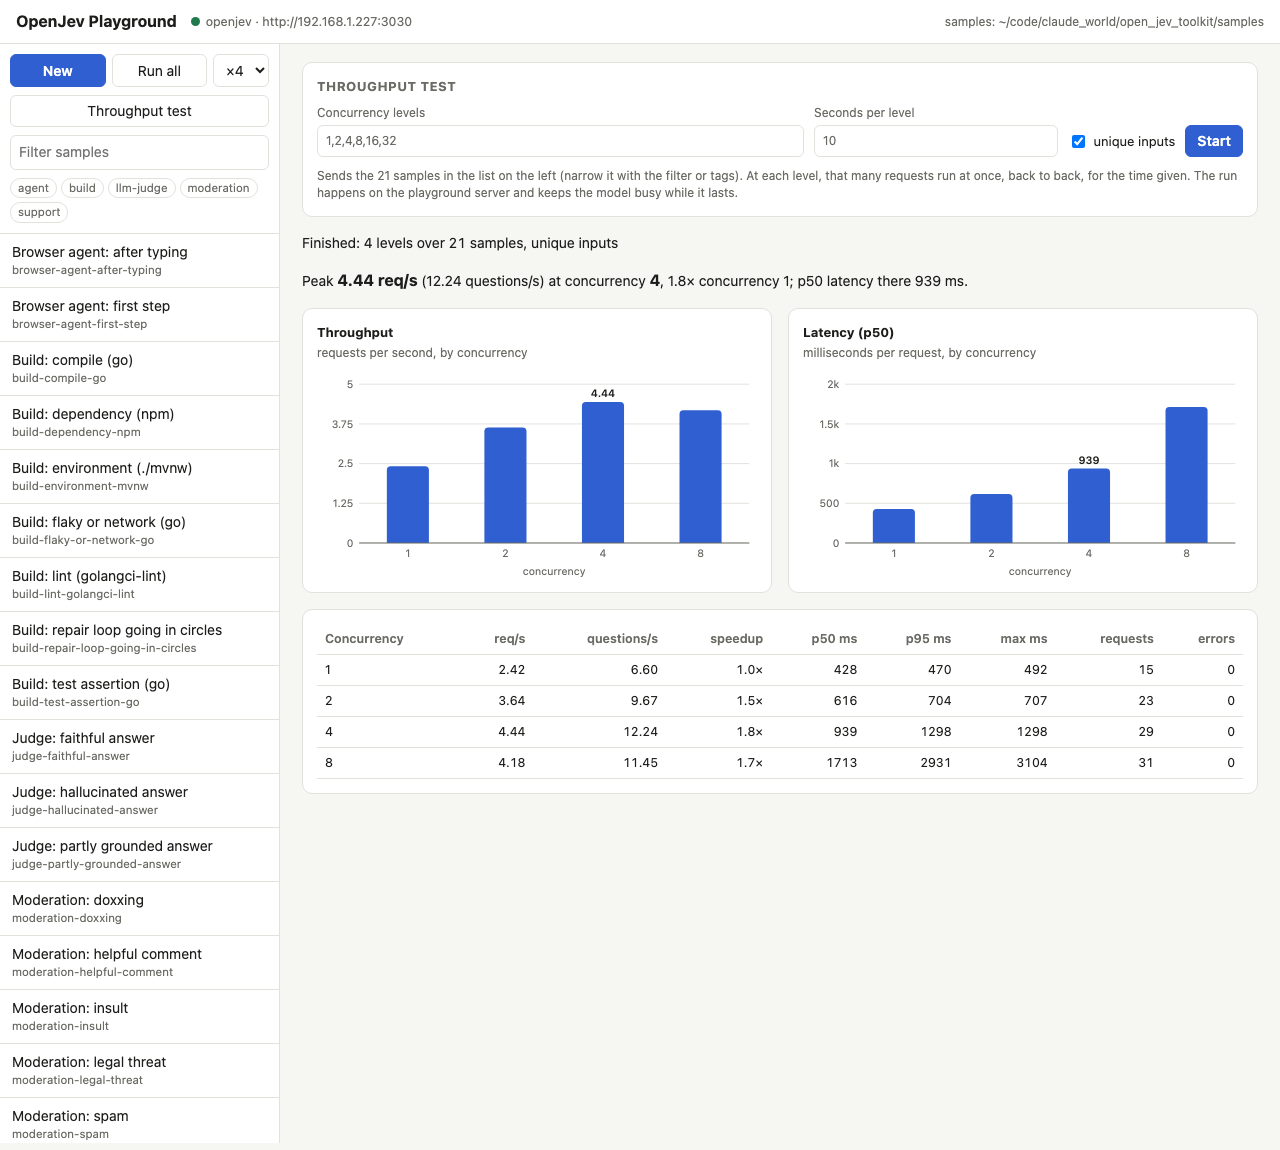
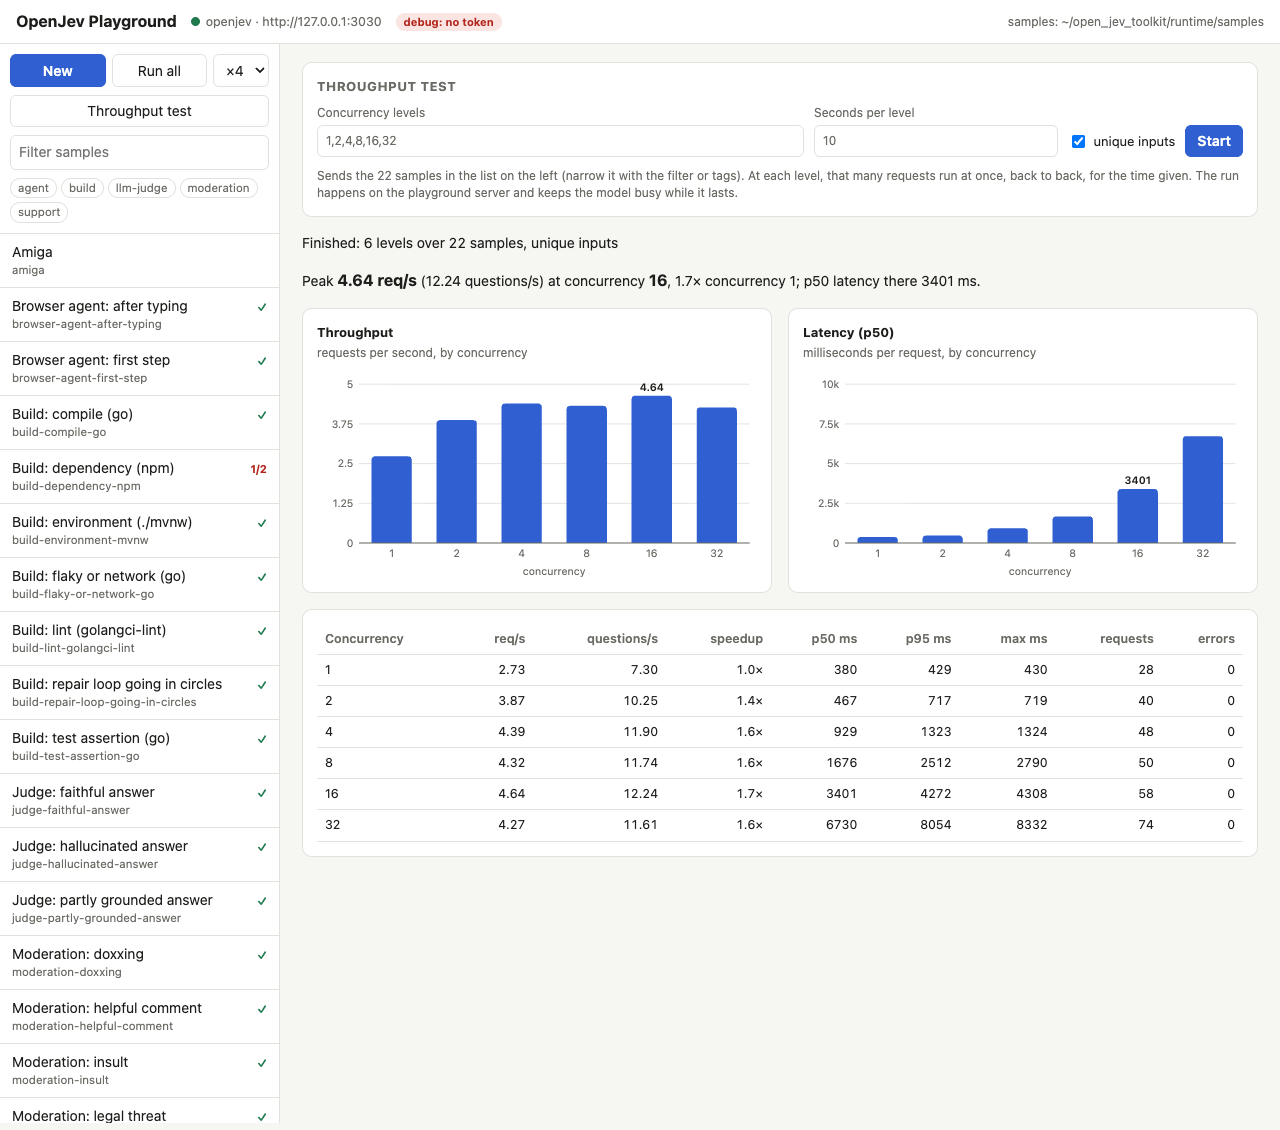
Docs: playground screenshots from the Spark, batching and prompt-cache findings
- Run all x4, throughput test mid-run and finished, captured from http://spark.local:3020 in real
  time (Run all: 22 samples in 4.8 s; throughput flat at 4.3-4.6 req/s from concurrency 4 to 32)
- docs/screenshots.mjs regenerates them over the Chrome DevTools protocol
- README: how OpenJev batches (questions per request, vLLM continuous batching), why a batching
  queue wouldn't add throughput, why the prefix cache misses short states (784-token blocks on the
  hybrid model: 0 hits in 605k prompt tokens), and what would raise throughput

diff --git a/README.md b/README.md
@@ -307,7 +307,17 @@ the git checkout, so later deploys can update it. `OPENJEV_SAMPLES` changes that
 
 ![Run all: every sample, with misses in red](docs/images/playground-run-all.png)
 
-![Throughput test against the DGX Spark: throughput peaks at concurrency 4 while latency keeps rising](docs/images/playground-throughput.png)
+Screenshots from the playground running on the DGX Spark (`http://spark.local:3020`, debug mode),
+in front of `27b-fp8`:
+
+![Run all, four at a time: 22 samples in 4.8 s](docs/images/playground-run-all-parallel.png)
+
+![Throughput test mid-run: levels 1, 2 and 4 done, concurrency 8 running](docs/images/playground-throughput-running.png)
+
+![Throughput test finished: throughput flat at 4.3-4.6 req/s from concurrency 4 to 32 while p50 latency rises to 6.7 s](docs/images/playground-throughput.png)
+
+`node docs/screenshots.mjs docs/images http://spark.local:3020/` regenerates these three from a
+live playground (it runs a full throughput test, about 70 s).
 
 ### Sample files
 
@@ -375,9 +385,47 @@ each use under 5% of a CPU. Repeated inputs (`--reuse-cache`) measured the same;
 prefix-cache hit rate for these short samples. This Spark also runs a llama.cpp server on the same
 GPU; any load on it during a run would lower these numbers.
 
+The playground's Throughput test on the Spark gives the same shape (screenshots above): 2.7 req/s
+at concurrency 1, then 4.3-4.6 req/s from 4 to 32 while p50 latency goes from 0.38 s to 6.7 s.
+
 The MLX server runs one prompt at a time, so more concurrency mostly adds waiting. Use it for
 development and the Spark (or any vLLM server) for parallel load. Size your callers by the peak:
 past it, more parallel requests only queue.
+
+### Batching, queues and the prompt cache
+
+OpenJev batches at two levels already:
+- **In the API:** one request carries one state and any number of questions, and the helper sends a
+  request's questions to vLLM in parallel (up to 16 in flight, `SHIM_POOL`). Asking several
+  questions about the same input in one request is the API's batching.
+- **On the GPU:** vLLM batches continuously, merging whatever requests are in flight into the same
+  GPU steps. That is where the 1.6x gain from concurrency 1 to 4 comes from.
+
+A queue in front of the service that groups requests into batches would not add throughput on the
+Spark. vLLM already merges concurrent requests, the GPU is at 96% from concurrency 4 up, and OpenJev
+requests produce a single output token, so nearly all the work is reading the prompt (prefill).
+Prefill costs about the same GPU work per token batched or not; batching pays off when generating
+long outputs, which OpenJev doesn't do. A queue is still useful to **bound latency**: cap requests
+in flight at about 4-8 (past the peak, extra requests only wait), absorb bursts, and reject or
+prioritise work.
+
+**The prompt cache doesn't help short states.** The helper puts the state first (`State: ...`, then
+the question), so a request's questions share a prefix. But OpenJev (Qwen3.5) mixes attention layers
+with linear-attention (Gated DeltaNet) layers, and for that kind of model vLLM caches prefixes only
+in whole blocks of 784 tokens (`Setting attention block size to 784 tokens` in `runtime/vllm.log`).
+The seed samples are about 150-300 tokens, so vLLM counted 0 cache hits in 605,303 prompt tokens,
+even when the same samples repeated. States longer than a block (log tails, page DOMs) should reuse
+the state across a request's questions; that hasn't been measured here. `SHIM_STAGGER=1` (set by
+`serve.sh`) runs the first question of a long state (16,000+ characters) alone so the others hit
+its cache.
+
+What would raise throughput, cheapest first:
+1. `flash-fp8` (9B): about a third of the compute per token, for 1-3 points of accuracy.
+2. Fewer prompt tokens: shorter option descriptions and trimmed states; cost is close to linear in
+   prompt length.
+3. For long states, ask all questions in one request, so the cache can reuse the state.
+4. A GPU of its own (the Spark's is shared with a llama.cpp server), or a second machine behind a
+   load balancer.
 
 ## Prompting vs fine-tuning
 
